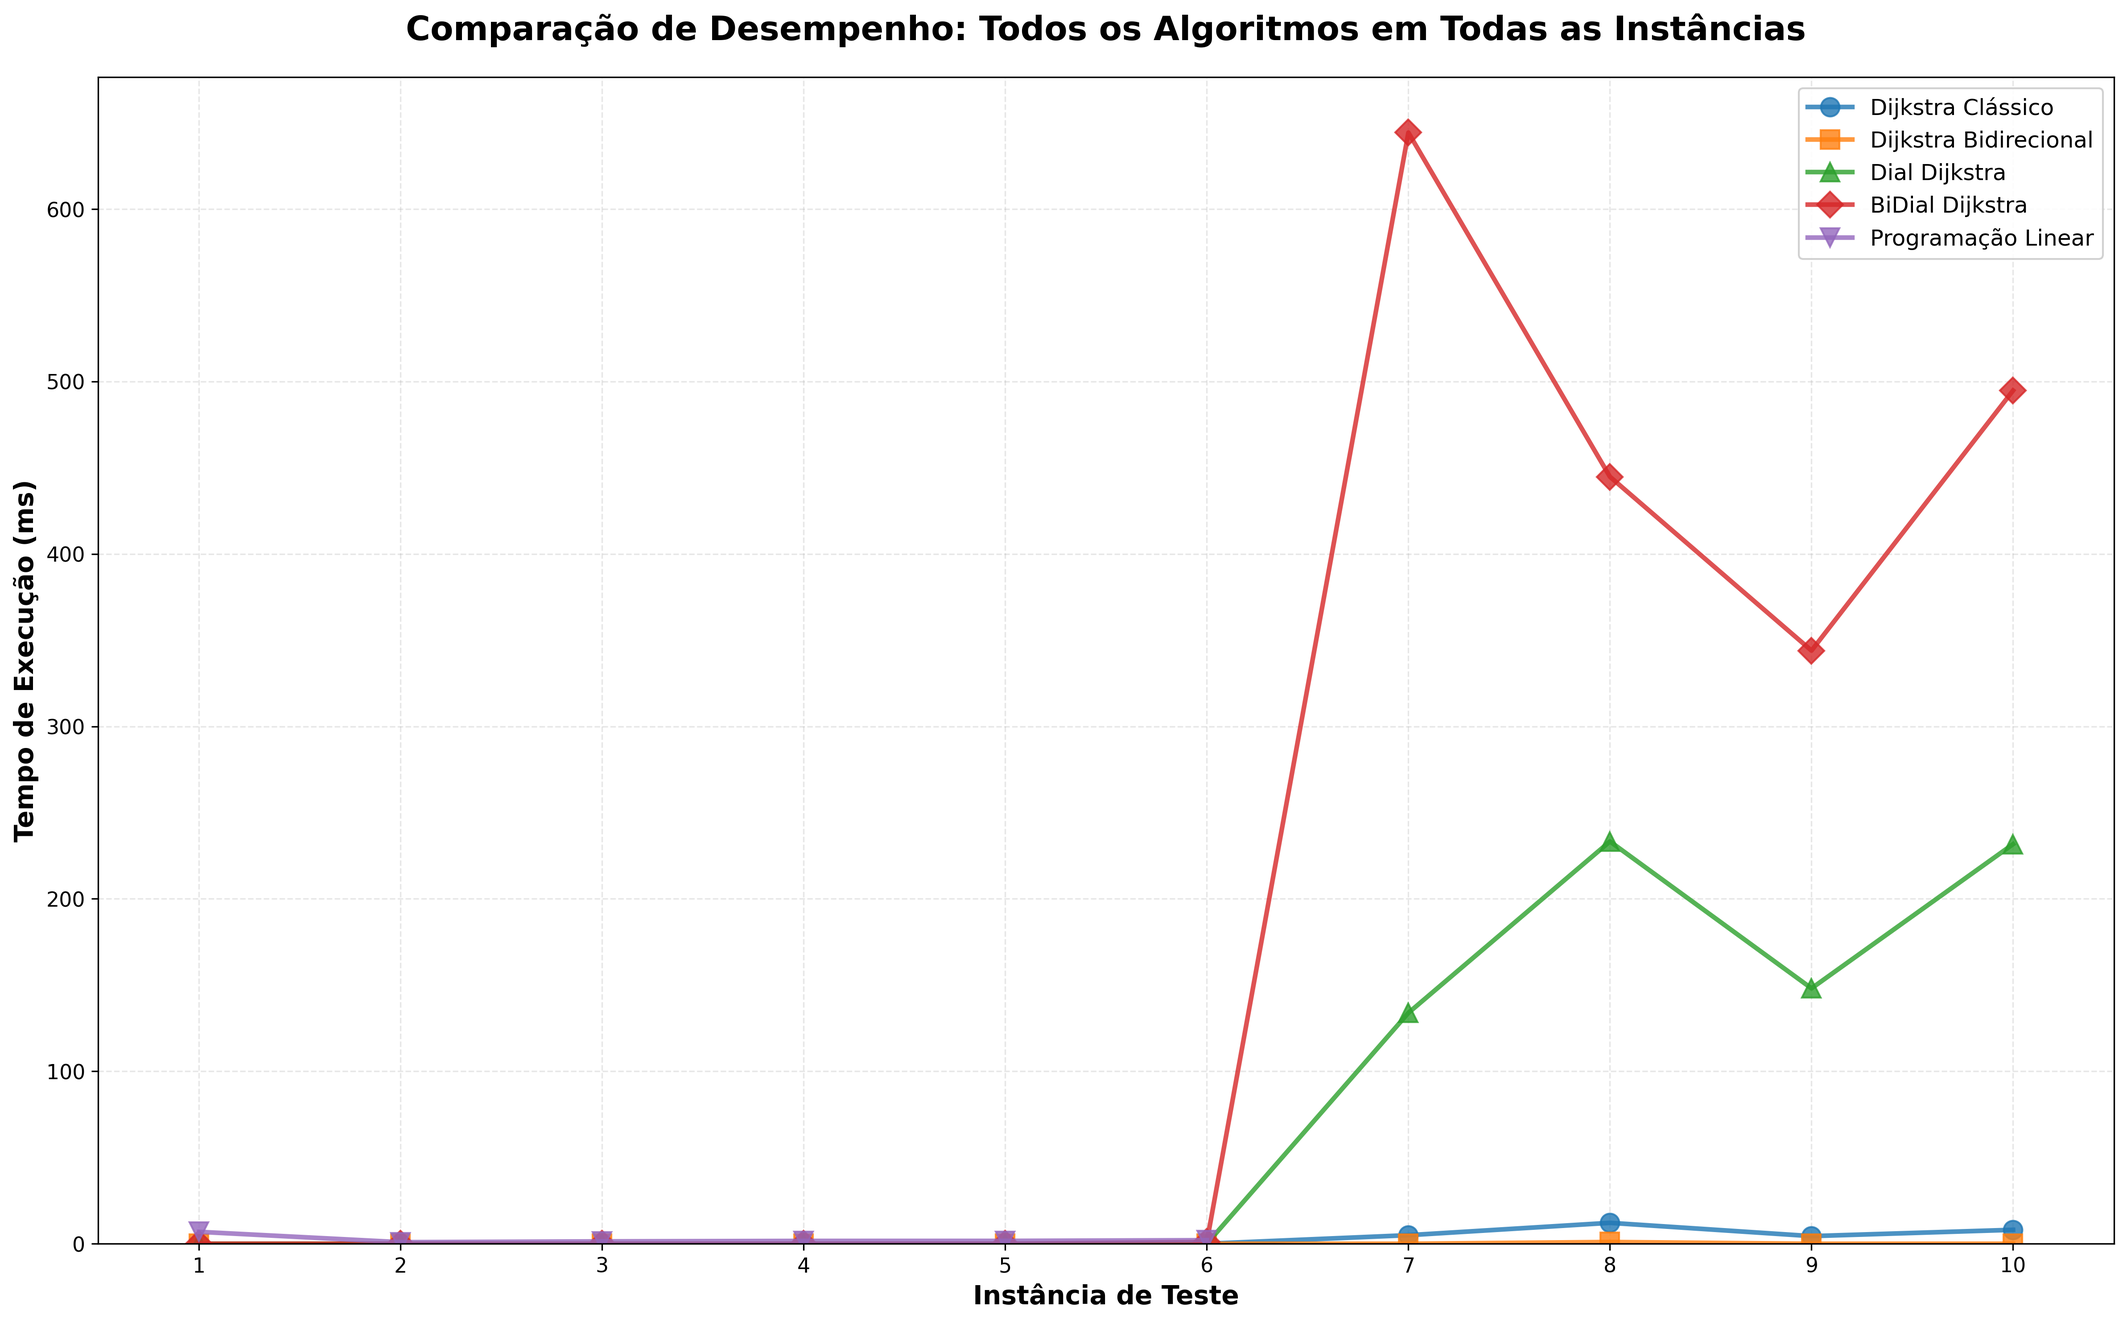
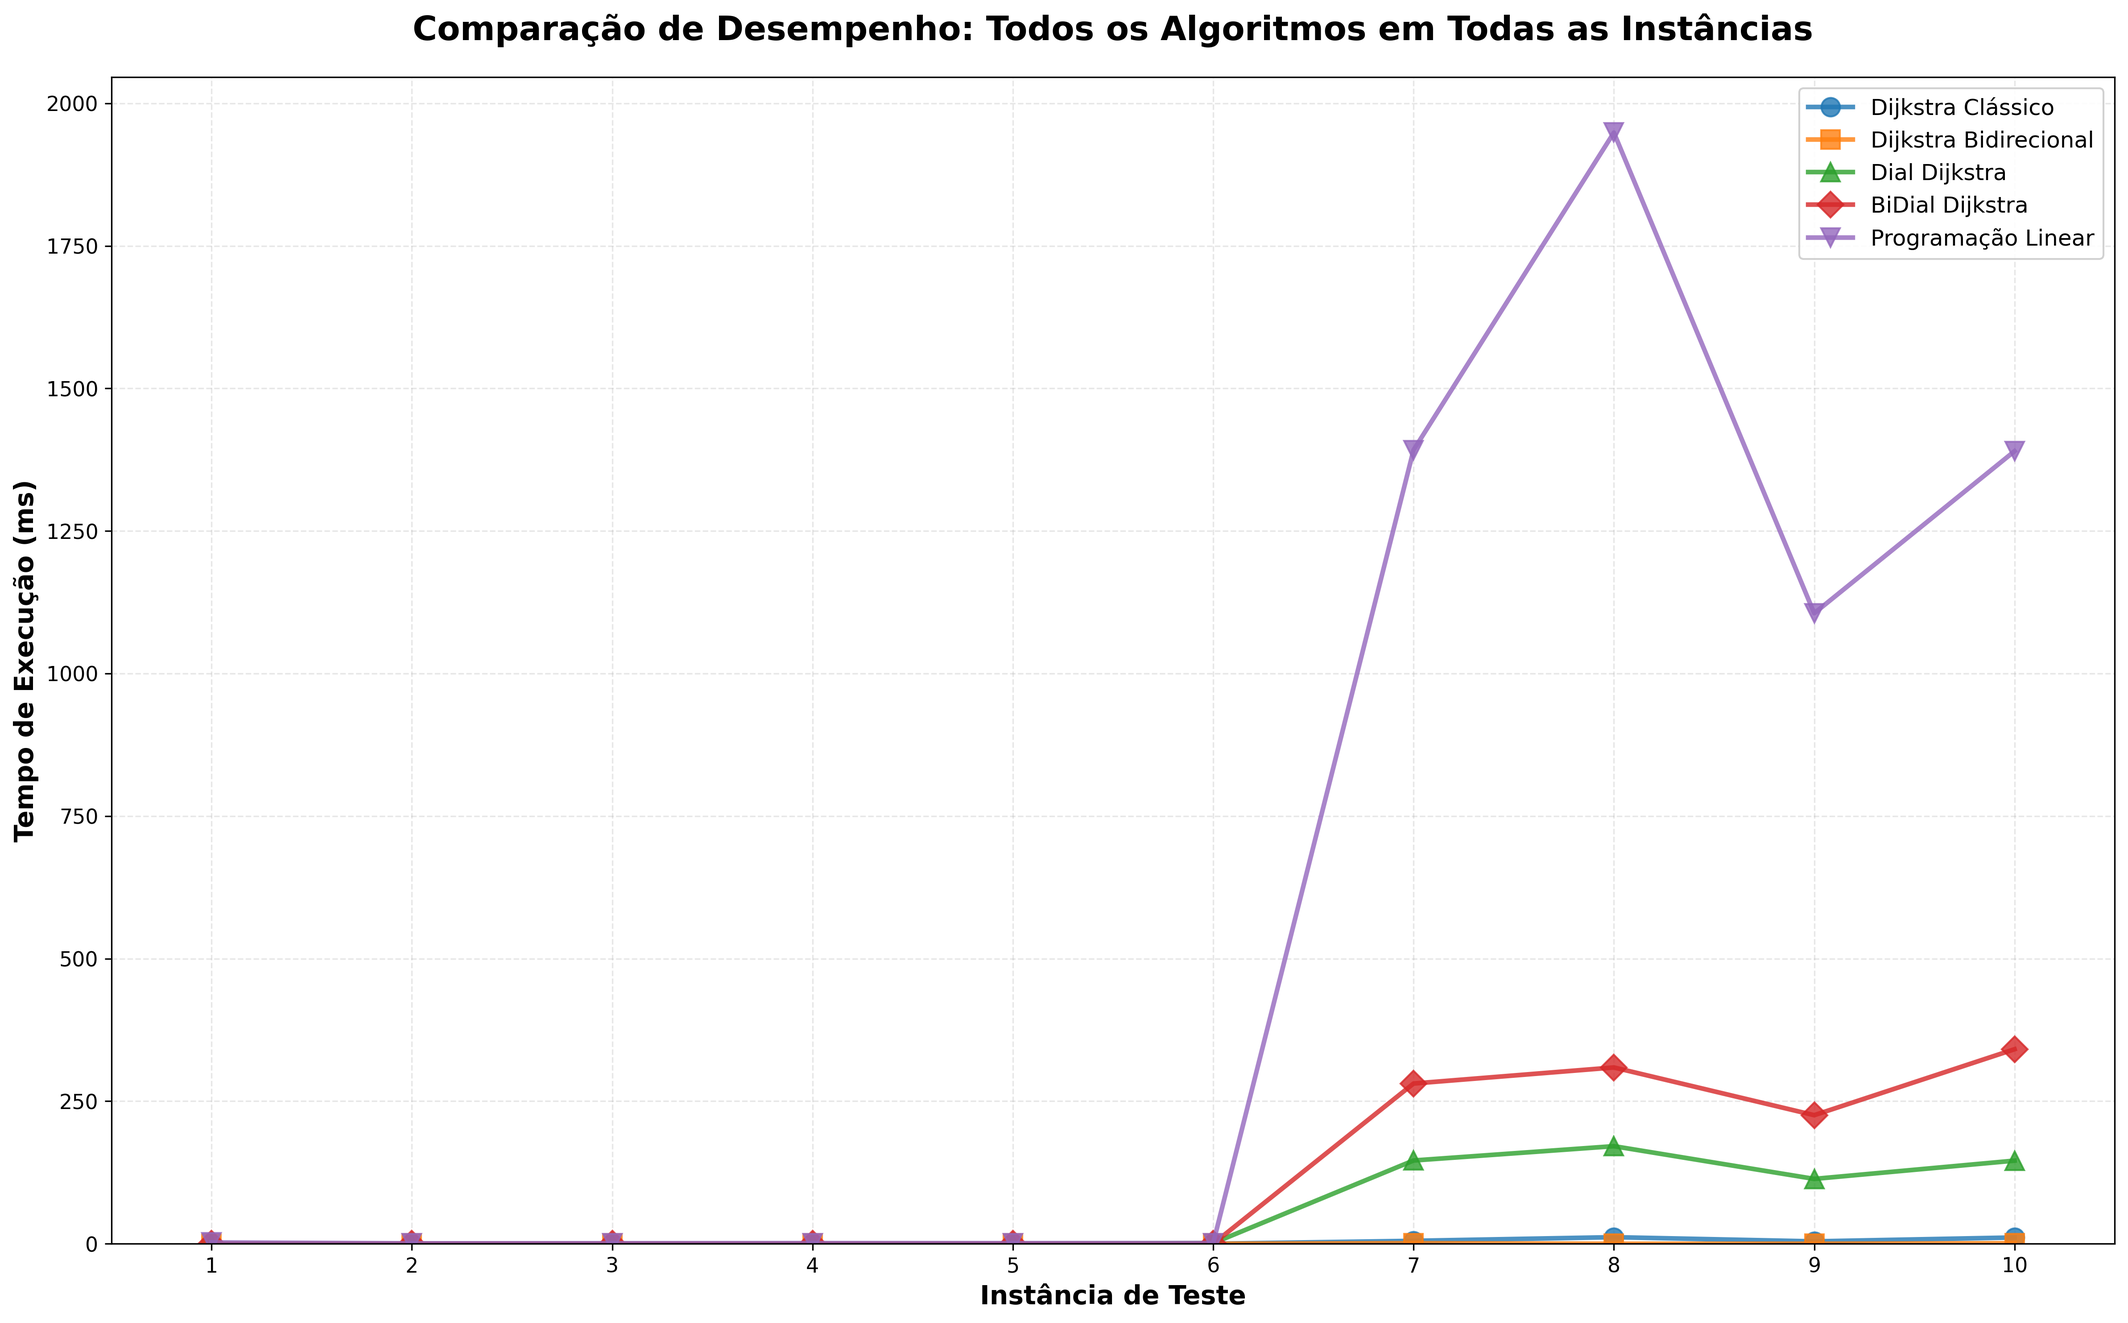
Correção e otimização da abordagem por Programação Linear

diff --git a/algorithms/plShortestPath.py b/algorithms/plShortestPath.py
@@ -59,116 +59,93 @@ def solve_shortest_path_lp():
     """
     
     try:
-        # Lê a primeira linha: N M S D
-        first_line = sys.stdin.readline().strip()
-        if not first_line:
-            print("Erro: não foi possível ler a primeira linha", file=sys.stderr)
+        # LEITURA OTIMIZADA: Lê tudo de uma vez em memória
+        input_data = sys.stdin.read().split()
+        if not input_data:
+            print("Erro: entrada vazia", file=sys.stderr)
             return 1
             
-        parts = first_line.split()
-        if len(parts) != 4:
-            print("Erro: formato inválido na primeira linha", file=sys.stderr)
+        iterator = iter(input_data)
+        
+        try:
+            N = int(next(iterator))
+            M = int(next(iterator))
+            S = int(next(iterator))
+            D = int(next(iterator))
+        except (StopIteration, ValueError):
+            print("Erro: formato inválido no cabeçalho", file=sys.stderr)
             return 1
-            
-        N, M, S, D = map(int, parts)
         
         # Validação dos parâmetros
         if N <= 0 or M < 0 or S < 0 or S >= N or D < 0 or D >= N:
             print("Erro: parâmetros inválidos", file=sys.stderr)
             return 1
-            
-        # Lista para armazenar as arestas (será expandida para grafo não direcionado)
-        edges = []
-        
-        # Lê as arestas
-        for i in range(M):
-            line = sys.stdin.readline().strip()
-            if not line:
-                print(f"Erro: número insuficiente de arestas na linha {i+1}", file=sys.stderr)
-                return 1
-                
-            parts = line.split()
-            if len(parts) != 3:
-                print(f"Erro: formato inválido na aresta {i+1}", file=sys.stderr)
-                return 1
-                
-            try:
-                u, v = int(parts[0]), int(parts[1])
-                w = float(parts[2])
-            except ValueError:
-                print(f"Erro: valores inválidos na aresta {i+1}", file=sys.stderr)
-                return 1
-                
-            # Validação dos vértices
-            if u < 0 or u >= N or v < 0 or v >= N:
-                print(f"Erro: vértices inválidos na aresta {i+1}", file=sys.stderr)
-                return 1
-                
-            # Validação do peso
-            if w < 0.0:
-                print(f"Erro: peso negativo na aresta {i+1}", file=sys.stderr)
-                return 1
-                
-            # Como o grafo é não direcionado, adicionamos ambas as direções
-            edges.append((u, v, w))
-            if u != v:  # Evita arestas duplicadas para self-loops
-                edges.append((v, u, w))
         
         # Se origem e destino são iguais
         if S == D:
             print("0")
             return 0
+        
+        # OTIMIZAÇÃO: Estrutura de adjacência e pesos separados
+        # Usa dicionário para vizinhos e pesos (acesso O(1))
+        adj = [[] for _ in range(N)]  # adj[u] = lista de vizinhos de u
+        weights = {}  # weights[(u,v)] = peso da aresta u->v
+        directed_edges = []  # Lista de arestas direcionadas para criar variáveis
+        
+        # Processamento das arestas
+        for _ in range(M):
+            try:
+                u = int(next(iterator))
+                v = int(next(iterator))
+                w = float(next(iterator))
+            except (StopIteration, ValueError):
+                print("Erro: formato inválido nas arestas", file=sys.stderr)
+                return 1
             
+            # Validação
+            if u < 0 or u >= N or v < 0 or v >= N or w < 0.0:
+                print(f"Erro: valores inválidos na aresta ({u}, {v}, {w})", file=sys.stderr)
+                return 1
+            
+            # Grafo não direcionado: adiciona ambas as direções
+            adj[u].append(v)
+            adj[v].append(u)
+            weights[(u, v)] = w
+            weights[(v, u)] = w
+            directed_edges.append((u, v))
+            directed_edges.append((v, u))
+        
         # Cria o modelo de otimização
         model = gp.Model("shortest_path")
         
-        # Suprime output do Gurobi
+        # Configurações do Gurobi otimizadas
         model.setParam('OutputFlag', 0)
         model.setParam('LogToConsole', 0)
+        model.setParam('Method', 0)  # Método Simplex (mais rápido para esse tipo de problema)
+        model.setParam('TimeLimit', 300)  # Timeout de 5 minutos
         
-        # Cria variáveis de fluxo para cada aresta
-        flow_vars = {}
-        for i, (u, v, w) in enumerate(edges):
-            var_name = f"x_{u}_{v}_{i}"
-            flow_vars[(u, v, i)] = model.addVar(
-                lb=0.0,           # Fluxo não negativo
-                ub=1.0,           # Máximo 1 unidade de fluxo
-                obj=w,            # Coeficiente na função objetivo
-                vtype=GRB.CONTINUOUS,
-                name=var_name
-            )
+        # OTIMIZAÇÃO: Criação de variáveis usando dicionário
+        x = {}
+        for u, v in directed_edges:
+            x[u, v] = model.addVar(vtype=GRB.CONTINUOUS, lb=0.0, name=f"x_{u}_{v}")
         
-        # Restrições de conservação de fluxo
-        for vertex in range(N):
-            # Fluxo de saída - fluxo de entrada
-            flow_balance = gp.LinExpr()
+        # Define função objetivo usando quicksum
+        obj = gp.quicksum(x[u, v] * weights[u, v] for u, v in directed_edges)
+        model.setObjective(obj, GRB.MINIMIZE)
+        
+        # CONSTRUÇÃO OTIMIZADA DAS RESTRIÇÕES - Usa lista de adjacência
+        for node in range(N):
+            # Fluxo que sai: soma de x[node, vizinho]
+            outflow = gp.quicksum(x[node, neighbor] for neighbor in adj[node])
+            # Fluxo que entra: soma de x[vizinho, node]
+            inflow = gp.quicksum(x[neighbor, node] for neighbor in adj[node])
             
-            # Adiciona fluxo de saída (aresta sai do vértice)
-            for i, (u, v, w) in enumerate(edges):
-                if u == vertex:
-                    flow_balance += flow_vars[(u, v, i)]
-            
-            # Subtrai fluxo de entrada (aresta chega no vértice)  
-            for i, (u, v, w) in enumerate(edges):
-                if v == vertex:
-                    flow_balance -= flow_vars[(u, v, i)]
-            
-            # Restrição de conservação
-            if vertex == S:
-                # Origem: deve sair 1 unidade líquida
-                model.addConstr(flow_balance == 1, f"flow_balance_{vertex}")
-            elif vertex == D:
-                # Destino: deve chegar 1 unidade líquida
-                model.addConstr(flow_balance == -1, f"flow_balance_{vertex}")
+            if node == S:
+                model.addConstr(outflow - inflow == 1, f"source_{node}")
+            elif node == D:
+                model.addConstr(outflow - inflow == -1, f"dest_{node}")
             else:
-                # Outros vértices: conservação perfeita (entrada = saída)
-                model.addConstr(flow_balance == 0, f"flow_balance_{vertex}")
-        
-        # Define objetivo: minimizar custo total
-        model.setObjective(
-            gp.quicksum(w * flow_vars[(u, v, i)] for i, (u, v, w) in enumerate(edges)),
-            GRB.MINIMIZE
-        )
+                model.addConstr(outflow - inflow == 0, f"flow_{node}")
         
         # Resolve o modelo
         model.optimize()

diff --git a/benchmarks/plShortestPath_benchmark.py b/benchmarks/plShortestPath_benchmark.py
@@ -19,105 +19,86 @@ def solve_shortest_path_lp():
     """
     
     try:
-        # Leitura e construção do modelo (NÃO incluso no benchmark)
-        first_line = sys.stdin.readline().strip()
-        if not first_line:
-            print("Erro: não foi possível ler a primeira linha", file=sys.stderr)
+        # LEITURA OTIMIZADA: Lê tudo de uma vez em memória (NÃO incluso no benchmark)
+        input_data = sys.stdin.read().split()
+        if not input_data:
+            print("Erro: entrada vazia", file=sys.stderr)
             return 1
             
-        parts = first_line.split()
-        if len(parts) != 4:
-            print("Erro: formato inválido na primeira linha", file=sys.stderr)
+        iterator = iter(input_data)
+        
+        try:
+            N = int(next(iterator))
+            M = int(next(iterator))
+            S = int(next(iterator))
+            D = int(next(iterator))
+        except (StopIteration, ValueError):
+            print("Erro: formato inválido no cabeçalho", file=sys.stderr)
             return 1
-            
-        N, M, S, D = map(int, parts)
         
         if N <= 0 or M < 0 or S < 0 or S >= N or D < 0 or D >= N:
             print("Erro: parâmetros inválidos", file=sys.stderr)
             return 1
-            
-        edges = []
-        
-        for i in range(M):
-            line = sys.stdin.readline().strip()
-            if not line:
-                print(f"Erro: número insuficiente de arestas na linha {i+1}", file=sys.stderr)
-                return 1
-                
-            parts = line.split()
-            if len(parts) != 3:
-                print(f"Erro: formato inválido na aresta {i+1}", file=sys.stderr)
-                return 1
-                
-            try:
-                u, v = int(parts[0]), int(parts[1])
-                w = float(parts[2])
-            except ValueError:
-                print(f"Erro: valores inválidos na aresta {i+1}", file=sys.stderr)
-                return 1
-                
-            if u < 0 or u >= N or v < 0 or v >= N or w < 0.0:
-                print(f"Erro: valores inválidos na aresta {i+1}", file=sys.stderr)
-                return 1
-                
-            # Como o grafo é não direcionado, adicionamos ambas as direções
-            edges.append((u, v, w))
-            if u != v:  # Evita arestas duplicadas para self-loops
-                edges.append((v, u, w))
         
         if S == D:
             print("0")
             print("0", file=sys.stderr)  # Tempo zero
             return 0
+        
+        # OTIMIZAÇÃO: Estrutura de adjacência e pesos separados
+        adj = [[] for _ in range(N)]  # adj[u] = lista de vizinhos de u
+        weights = {}  # weights[(u,v)] = peso da aresta u->v
+        directed_edges = []  # Lista de arestas direcionadas
+        
+        # Processamento das arestas
+        for _ in range(M):
+            try:
+                u = int(next(iterator))
+                v = int(next(iterator))
+                w = float(next(iterator))
+            except (StopIteration, ValueError):
+                print("Erro: formato inválido nas arestas", file=sys.stderr)
+                return 1
             
+            if u < 0 or u >= N or v < 0 or v >= N or w < 0.0:
+                print(f"Erro: valores inválidos na aresta ({u}, {v}, {w})", file=sys.stderr)
+                return 1
+            
+            # Grafo não direcionado
+            adj[u].append(v)
+            adj[v].append(u)
+            weights[(u, v)] = w
+            weights[(v, u)] = w
+            directed_edges.append((u, v))
+            directed_edges.append((v, u))
+        
         # Cria o modelo de otimização
         model = gp.Model("shortest_path")
         model.setParam('OutputFlag', 0)
         model.setParam('LogToConsole', 0)
+        model.setParam('Method', 0)  # Método Simplex
+        model.setParam('TimeLimit', 300)  # 5 minutos
         
-        # Configurações agressivas para instâncias grandes
-        model.setParam('TimeLimit', 120)      # Limite de 2 minutos  
-        model.setParam('Threads', 6)          # Usar mais threads
-        model.setParam('MIPFocus', 1)         # Foco em encontrar soluções factíveis
-        model.setParam('Heuristics', 0.9)     # Mais heurísticas
-        model.setParam('Cuts', 3)             # Cortes mais agressivos
-        model.setParam('Presolve', 2)         # Presolve mais agressivo
+        # Criação de variáveis
+        x = {}
+        for u, v in directed_edges:
+            x[u, v] = model.addVar(vtype=GRB.CONTINUOUS, lb=0.0, name=f"x_{u}_{v}")
         
-        # Cria variáveis de fluxo para cada aresta
-        flow_vars = {}
-        for i, (u, v, w) in enumerate(edges):
-            var_name = f"x_{u}_{v}_{i}"
-            flow_vars[(u, v, i)] = model.addVar(
-                lb=0.0,
-                ub=1.0,
-                obj=w,
-                vtype=GRB.CONTINUOUS,
-                name=var_name
-            )
+        # Função objetivo
+        obj = gp.quicksum(x[u, v] * weights[u, v] for u, v in directed_edges)
+        model.setObjective(obj, GRB.MINIMIZE)
         
-        # Restrições de conservação de fluxo
-        for vertex in range(N):
-            flow_balance = gp.LinExpr()
+        # Restrições de fluxo
+        for node in range(N):
+            outflow = gp.quicksum(x[node, neighbor] for neighbor in adj[node])
+            inflow = gp.quicksum(x[neighbor, node] for neighbor in adj[node])
             
-            for i, (u, v, w) in enumerate(edges):
-                if u == vertex:
-                    flow_balance += flow_vars[(u, v, i)]
-            
-            for i, (u, v, w) in enumerate(edges):
-                if v == vertex:
-                    flow_balance -= flow_vars[(u, v, i)]
-            
-            if vertex == S:
-                model.addConstr(flow_balance == 1, f"flow_balance_{vertex}")
-            elif vertex == D:
-                model.addConstr(flow_balance == -1, f"flow_balance_{vertex}")
+            if node == S:
+                model.addConstr(outflow - inflow == 1, f"source_{node}")
+            elif node == D:
+                model.addConstr(outflow - inflow == -1, f"dest_{node}")
             else:
-                model.addConstr(flow_balance == 0, f"flow_balance_{vertex}")
-        
-        model.setObjective(
-            gp.quicksum(w * flow_vars[(u, v, i)] for i, (u, v, w) in enumerate(edges)),
-            GRB.MINIMIZE
-        )
+                model.addConstr(outflow - inflow == 0, f"flow_{node}")
         
         # INÍCIO DO BENCHMARK - medição do tempo do algoritmo apenas
         start_time = time.perf_counter()

diff --git a/benchmarks/benchmark_runner.py b/benchmarks/benchmark_runner.py
@@ -182,16 +182,13 @@ def create_comprehensive_comparison_plot(all_results, output_dir):
         if alg_name in algorithm_styles:
             style = algorithm_styles[alg_name]
             # Converte tempos para milissegundos
-            # Mantém zero como zero (não filtra)
-            # Filtra apenas timeouts (> 60 segundos = 60000000 us)
             times_ms = []
             test_cases_nums = []
             
             for i, (tc, time_us) in enumerate(zip(data['test_cases'], data['times'])):
-                # Pula apenas timeouts (> 60000ms = 60s)
-                if time_us < 60000000:  # não é timeout
-                    times_ms.append(time_us / divisor)  # converte para ms, mantém 0 como 0
-                    test_cases_nums.append(int(tc.replace('arq', '')))
+                # Plota todos os pontos (incluindo PL nas instâncias grandes)
+                times_ms.append(time_us / divisor)  # converte para ms
+                test_cases_nums.append(int(tc.replace('arq', '')))
             
             if times_ms:
                 plt.plot(test_cases_nums, times_ms, 

diff --git a/README.md b/README.md
@@ -126,11 +126,19 @@ O projeto oferece duas formas de uso:
 
 - **Formulação:** Problema de fluxo de custo mínimo
 - **Solver:** Gurobi Optimizer (Python API - gurobipy)
-- **Variáveis:** Fluxo em cada aresta x_e ∈ [0, ∞)
-- **Restrições:** Conservação de fluxo (entrada - saída = demanda)
-- **Objetivo:** Minimizar Σ w_e × x_e
+- **Variáveis:** Fluxo em cada aresta x_(u,v) ∈ [0, ∞)
+- **Restrições:** Conservação de fluxo (saída - entrada = demanda)
+- **Objetivo:** Minimizar Σ w_(u,v) × x_(u,v)
+- **Implementação Otimizada:** 
+  - **Estrutura de dados:** Usa lista de adjacência `adj[]` + dicionário de pesos `weights{}` para acesso O(1)
+  - **Variáveis:** Dicionário `x[u,v]` para acesso direto às variáveis de fluxo
+  - **Leitura otimizada:** Lê toda entrada em bloco com `sys.stdin.read()` + iterador
+  - **Construção eficiente:** `gp.quicksum()` para expressões lineares (mais rápido que loops)
+  - **Método Simplex:** `Method=0` (mais eficiente para redes de fluxo que Barrier)
+  - **Complexidade:** O(N + M) para construção do modelo; tempo de solução depende do Simplex
+- **Licença Acadêmica:** Requer licença acadêmica do Gurobi (ilimitada) configurada via `GRB_LICENSE_FILE`
 - **Uso:** Validação teórica e comparação de desempenho
-- **Observação:** Muito mais lento que algoritmos especializados; timeout de 5 minutos em instâncias grandes
+- **Observação:** Mesmo otimizado, 10-100x mais lento que algoritmos especializados; timeout de 5 minutos
 
 ---
 
